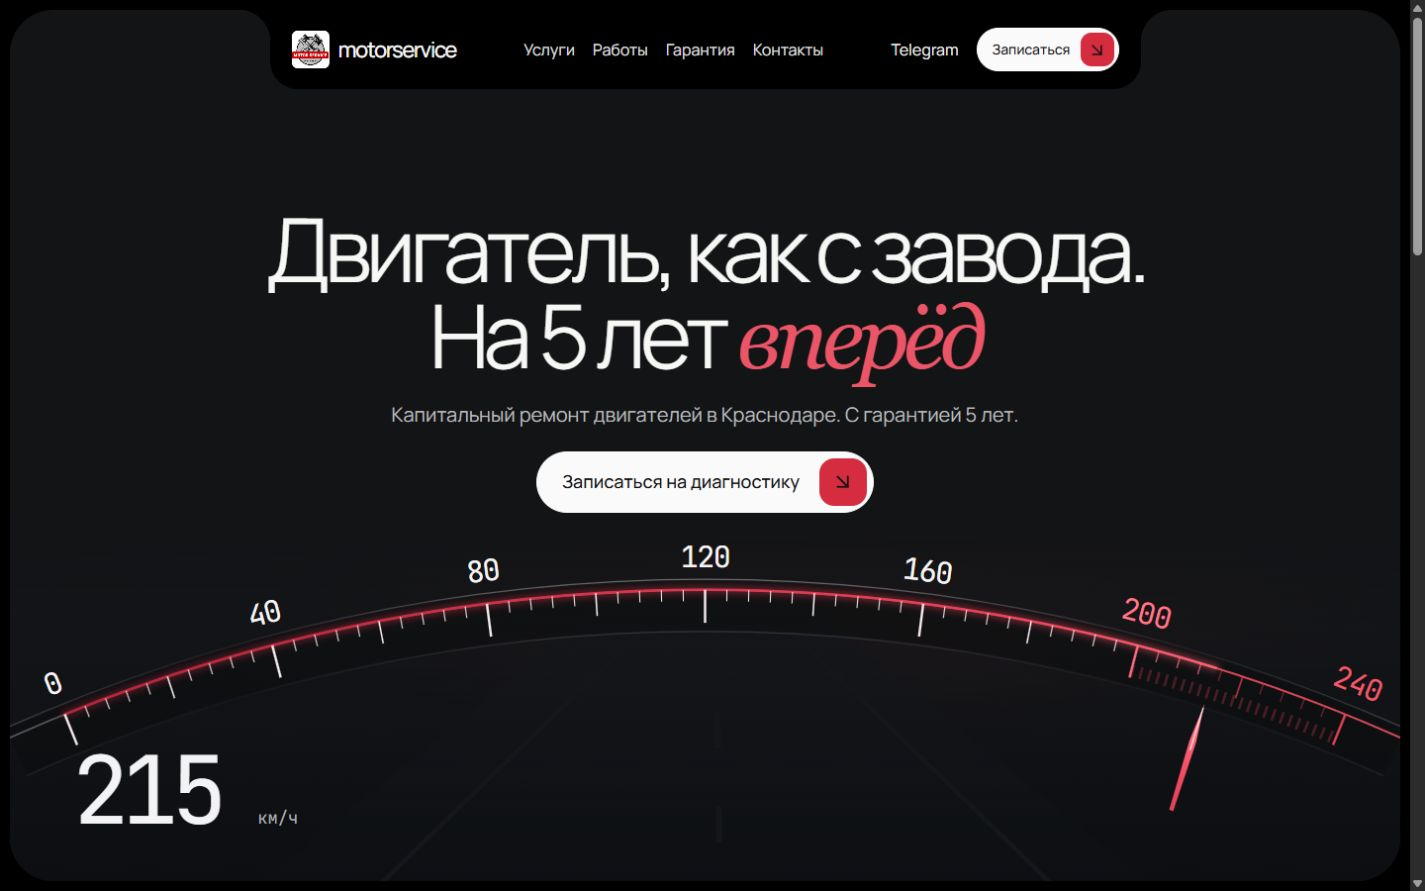
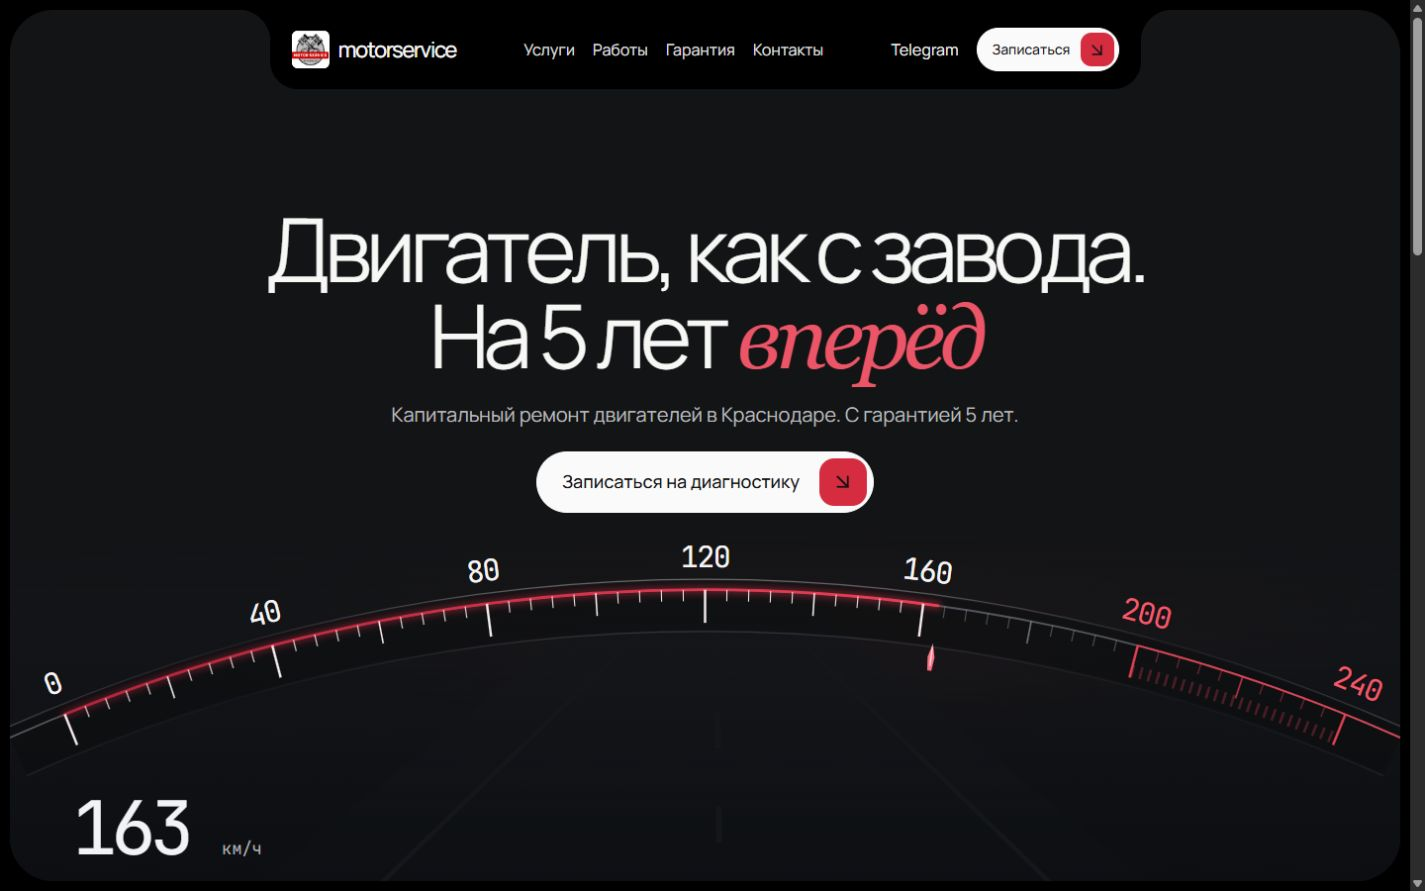
Finalize v3.3 gauge clearance across the full speed range

diff --git a/src/components/Hero/Speedometer.tsx b/src/components/Hero/Speedometer.tsx
@@ -22,20 +22,24 @@ export interface GaugeGeometry {
   mobile: boolean;
   labelSize: number;
   bottom: number;
+  readoutTop: number;
 }
 
 export const Speedometer = forwardRef<
   HTMLDivElement,
   { geometry: GaugeGeometry }
 >(function Speedometer({ geometry }, ref) {
-  const { cy, top, mobile, labelSize, bottom } = geometry;
+  const { cy, top, mobile, labelSize, bottom, readoutTop } = geometry;
   const labels = [0, 40, 80, 120, 160, 200, 240];
   const needleTip = cy - RADIUS + 44;
   const tailRadius = Math.max(
     RADIUS - 44 - (mobile ? 520 : 300),
     (cy - bottom + 32) / Math.cos(radians(22)),
+    mobile ? 0 : (cy - readoutTop + 18) / Math.cos(radians(22)),
   );
-  const needleTail = Math.max(needleTip + 60, cy - tailRadius);
+  const needleTail = Math.max(needleTip + 8, cy - tailRadius);
+  const needleShoulder =
+    needleTip + Math.min(45, (needleTail - needleTip) * 0.5);
   const needleWidth = mobile ? 10 : 4;
   return (
     <div
@@ -180,7 +184,7 @@ export const Speedometer = forwardRef<
             filter="url(#needle-glow)"
           />
           <path
-            d={`M ${CENTER_X} ${needleTip} L ${CENTER_X + needleWidth} ${needleTip + 45} L ${CENTER_X + needleWidth * 0.6} ${needleTail} L ${CENTER_X - needleWidth * 0.6} ${needleTail} L ${CENTER_X - needleWidth} ${needleTip + 45} Z`}
+            d={`M ${CENTER_X} ${needleTip} L ${CENTER_X + needleWidth} ${needleShoulder} L ${CENTER_X + needleWidth * 0.6} ${needleTail} L ${CENTER_X - needleWidth * 0.6} ${needleTail} L ${CENTER_X - needleWidth} ${needleShoulder} Z`}
             className="needle-core"
           />
           <line
@@ -188,7 +192,7 @@ export const Speedometer = forwardRef<
             x1={CENTER_X}
             y1={needleTip + 5}
             x2={CENTER_X}
-            y2={needleTip + 54}
+            y2={needleTip + Math.min(54, (needleTail - needleTip) * 0.8)}
           />
         </g>
       </svg>

diff --git a/src/components/Hero/index.tsx b/src/components/Hero/index.tsx
@@ -16,6 +16,7 @@ export function Hero() {
     mobile: false,
     labelSize: 38,
     bottom: 900,
+    readoutTop: 780,
   });
   const geometryRef = useRef(geometry);
   const drawRef = useRef<() => void>(() => {});
@@ -45,19 +46,28 @@ export function Hero() {
         copyBottom + clearance,
       );
       const top = apex - (cy - RADIUS) * scale;
+      const readout = gauge.current?.querySelector(".arc-speed-readout");
+      const readoutTop =
+        ((readout?.getBoundingClientRect().top ??
+          section.getBoundingClientRect().bottom) -
+          section.getBoundingClientRect().top -
+          top) /
+        scale;
       const next = {
         cy,
         top,
         mobile,
         labelSize,
         bottom: (height - top) / scale,
+        readoutTop,
       };
       geometryRef.current = next;
       setGeometry((previous) =>
         Math.abs(previous.top - next.top) < 0.5 &&
         previous.mobile === mobile &&
         previous.labelSize === labelSize &&
-        Math.abs(previous.bottom - next.bottom) < 0.5
+        Math.abs(previous.bottom - next.bottom) < 0.5 &&
+        Math.abs(previous.readoutTop - next.readoutTop) < 0.5
           ? previous
           : next,
       );

diff --git a/src/hero-preview.css b/src/hero-preview.css
@@ -379,7 +379,7 @@ body {
 .arc-speed-readout {
   position: absolute;
   left: 4.5%;
-  bottom: 44px;
+  bottom: 16px;
   display: flex;
   align-items: baseline;
   gap: 16px;
@@ -391,7 +391,7 @@ body {
 }
 .arc-speed-value {
   min-width: 3ch;
-  font-size: clamp(72px, 6.6vw, 96px);
+  font-size: clamp(72px, 5.2vw, 96px);
   line-height: 1;
   letter-spacing: -0.075em;
   font-variant-numeric: tabular-nums;

diff --git a/QUALITY.md b/QUALITY.md
@@ -2,6 +2,8 @@
 
 10 ноября 2026. Проверены 1440×900 и 390×844, включая production-сборку с базовым путём `/MotorS/`.
 
+Финальная проверка стрелки по всему диапазону углов: до крупного числа остаётся не менее 15 px на desktop и 37 px на mobile. Скорость на desktop — 74.88 px, на mobile — 72 px. Повторные быстрые переключения разборки проверены; детали, масштаб и камера обновляются одним анимационным прогрессом.
+
 Пять проходов проверки и полировки:
 
 1. Спидометр: шкала 0–240 км/ч, подписи 0, 40, 80, 120, 160, 200, 240, крупная скорость 72–96 px. Укороченная стрелка целиком остаётся внутри карточки. Poster дороги расположен под дугой; видеофайл ещё не предоставлен.
